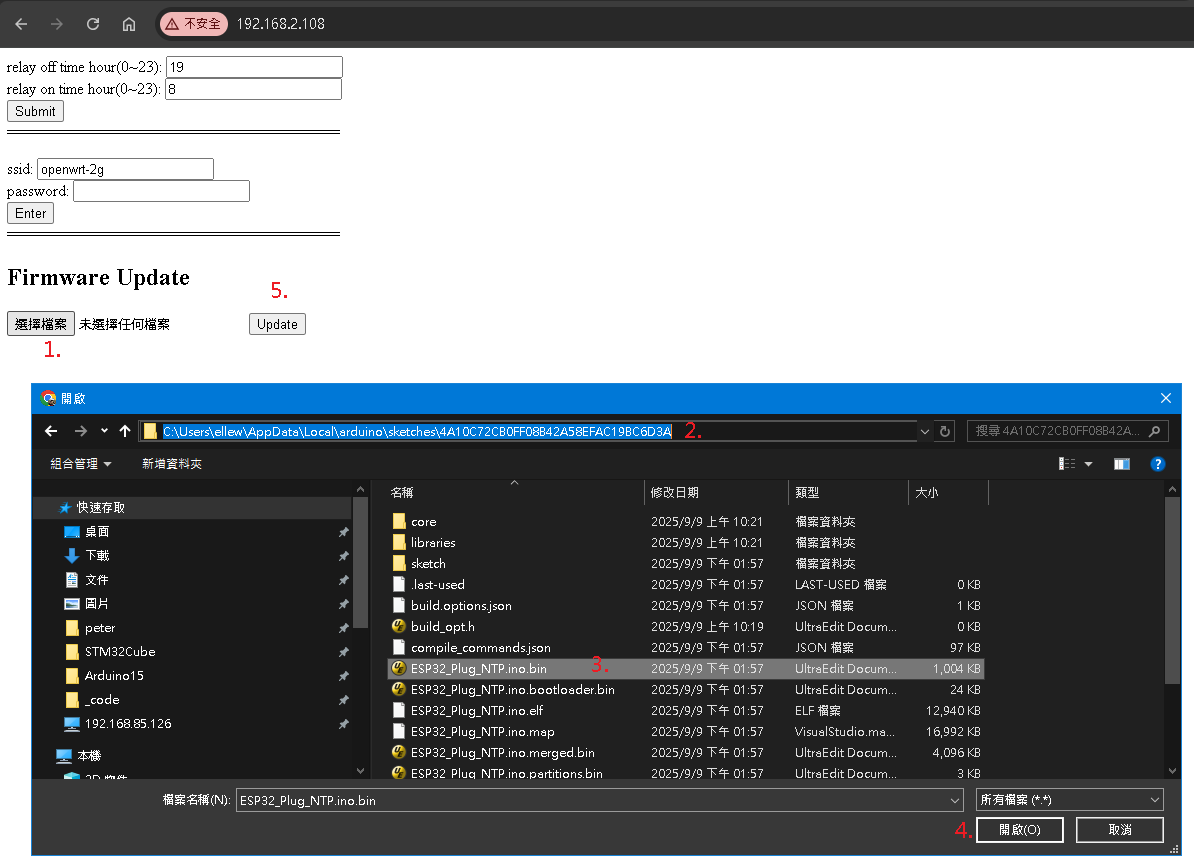
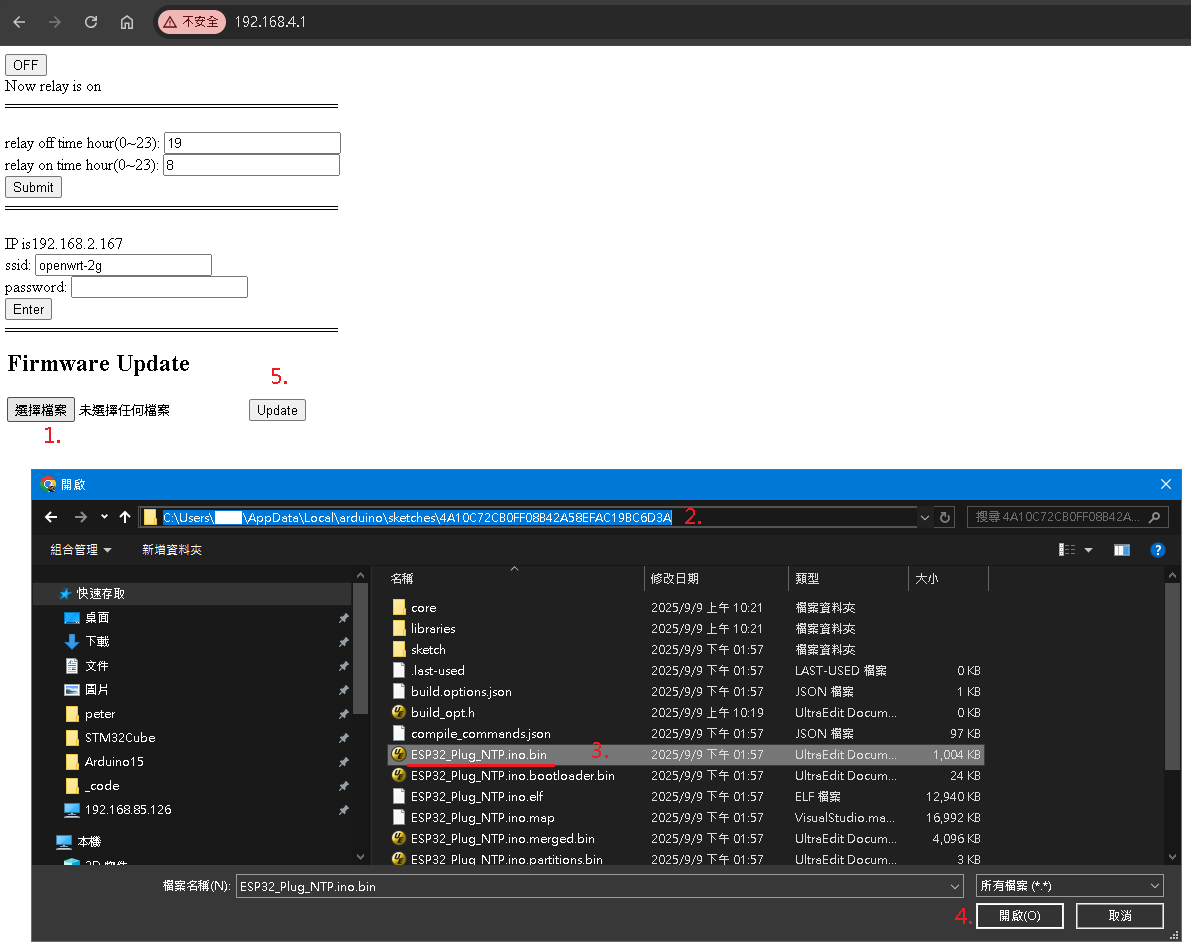
Show connected wifi ip

Changed region(s): [[0.0, 0.0, 1.0, 0.9965]]

diff --git a/OTAWebUpdater.h b/OTAWebUpdater.h
@@ -53,6 +53,8 @@ void handleRoot() {
   html += "</form>";
 
   // ssid and password
+  html += "IP is" + WiFi.localIP().toString();
+  html += "<br>";
   html += "<form action=\"/submitSSID\" method=\"get\">";
   html += "ssid: <input type=\"string\" name=\"ssidStr\" value=\"" + ssid + "\">";
   html += "<br>";
@@ -108,10 +110,12 @@ void handleSSIDSubmission() {
     if ((tmp1 != "") && (tmp2 != "")) {
       ssid = tmp1;
       password = tmp2;
+      Serial.printf("received ssid: %s, passwd: %s \n", ssid, password);
       save_nvs = 2;
+    } else {
+      Serial.printf("received invalid ssid: %s, passwd: %s \n", ssid, password);
     }
 
-    Serial.printf("received ssid: %s, passwd: %s \n", ssid, password);
   } else {
     server.send(400, "text/plain", "No number provided.");
   }

diff --git a/README.md b/README.md
@@ -6,8 +6,8 @@
 2. Boards manager -> search `esp32` by espressif systems -> install  
 3. Select board `DOIT ESP32 DEVKIT V1`  
 4. Verify then Upload  
-5. connect to esp32 wifi AP `PLUG_XXXXXXXXXXXX`, then open `192.168.4.1` by chrome.  
-6. on esp32 webpage, config esp32 to connect your wifi AP.  
+5. win10 connect to esp32 wifi AP `PLUG_XXXXXXXXXXXX`, then open `192.168.4.1` by chrome. (esp32 AP mode).  
+6. on esp32 webpage, enter ssid to connect another wifi AP. Esp32 will auto reboot and show new ip `192.168.2.167`. (esp32 STA mode).  
 
 ## web page to config relay time, ssid, fw update
 ![IMAGE ALT TEXT HERE](./img/fw_update.png)  
